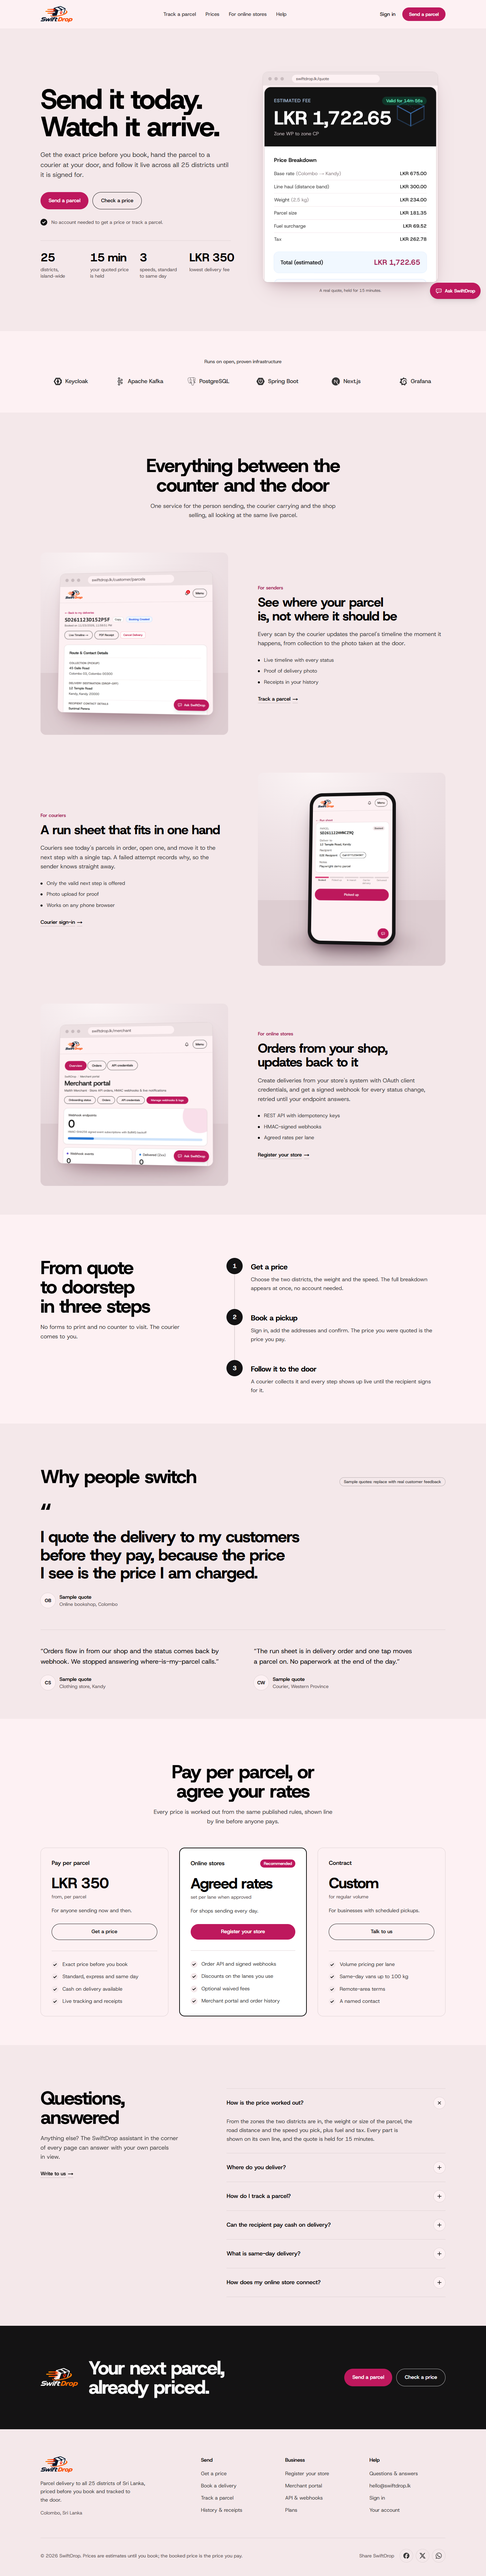
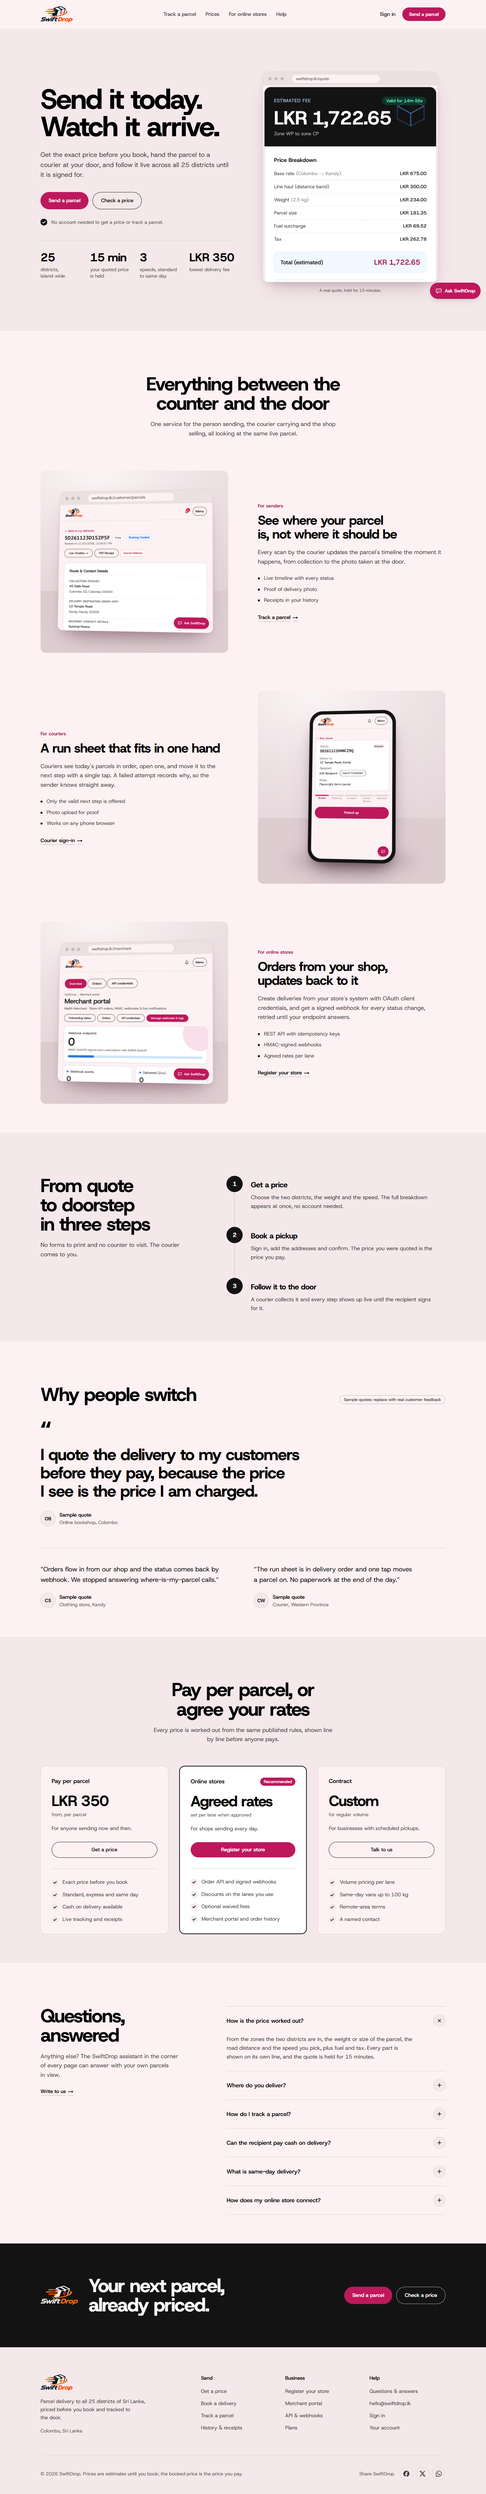
fix(web): remove the "Runs on" row from the landing page (#133)
The row of technology marks is removed at the owner's request, with its marks. The grounds below
the hero shift so they still alternate (features on the page ground, steps on the alternate, and
so on), and the landing screenshots are updated.

diff --git a/apps/web/src/lib/brand-marks.ts b/apps/web/src/lib/brand-marks.ts
@@ -1,7 +1,6 @@
 /**
- * Monochrome marks from Simple Icons 13.21.0 (https://simpleicons.org, icon data CC0 1.0), drawn
- * inline at one size and in one colour. The names and logos are trademarks of their owners and
- * are shown only to say what SwiftDrop runs on.
+ * Monochrome social marks from Simple Icons 13.21.0 (https://simpleicons.org, icon data CC0 1.0),
+ * drawn inline at one size and in one colour. The names and logos are trademarks of their owners.
  */
 
 export interface BrandMark {
@@ -9,15 +8,6 @@ export interface BrandMark {
   /** SVG path on a 24 by 24 grid. */
   path: string;
 }
-
-export const TECH_MARKS: readonly BrandMark[] = [
-  { name: "Keycloak", path: "m18.742 1.182-12.493.002C4.155 4.784 2.079 8.393 0 12.002c2.071 3.612 4.162 7.214 6.252 10.816l12.49-.004 3.089-5.404h2.158v-.002H24L23.996 6.59h-2.168zM8.327 4.792h2.081l1.04 1.8-3.12 5.413 3.117 5.403-1.035 1.81H8.327a2047.566 2047.566 0 0 0-4.168-7.204C5.547 9.606 6.937 7.2 8.327 4.792Zm6.241 0 2.086.003c1.393 2.405 2.78 4.813 4.166 7.222l-4.167 7.2h-2.08c-.382-.562-1.038-1.808-1.038-1.808l3.123-5.405-3.124-5.413z" },
-  { name: "Apache Kafka", path: "M9.71 2.136a1.43 1.43 0 0 0-2.047 0h-.007a1.48 1.48 0 0 0-.421 1.042c0 .41.161.777.422 1.039l.007.007c.257.264.616.426 1.019.426.404 0 .766-.162 1.027-.426l.003-.007c.261-.262.421-.629.421-1.039 0-.408-.159-.777-.421-1.042H9.71zM8.683 22.295c.404 0 .766-.167 1.027-.429l.003-.008c.261-.261.421-.631.421-1.036 0-.41-.159-.778-.421-1.044H9.71a1.42 1.42 0 0 0-1.027-.432 1.4 1.4 0 0 0-1.02.432h-.007c-.26.266-.422.634-.422 1.044 0 .406.161.775.422 1.036l.007.008c.258.262.617.429 1.02.429zm7.89-4.462c.359-.096.683-.33.882-.684l.027-.052a1.47 1.47 0 0 0 .114-1.067 1.454 1.454 0 0 0-.675-.896l-.021-.014a1.425 1.425 0 0 0-1.078-.132c-.36.091-.684.335-.881.686-.2.349-.241.75-.146 1.119.099.363.33.691.675.896h.002c.346.203.737.239 1.101.144zm-6.405-7.342a2.083 2.083 0 0 0-1.485-.627c-.58 0-1.103.242-1.482.627-.378.385-.612.916-.612 1.507s.233 1.124.612 1.514a2.08 2.08 0 0 0 2.967 0c.379-.39.612-.923.612-1.514s-.233-1.122-.612-1.507zm-.835-2.51c.843.141 1.6.552 2.178 1.144h.004c.092.093.182.196.265.299l1.446-.851a3.176 3.176 0 0 1-.047-1.808 3.149 3.149 0 0 1 1.456-1.926l.025-.016a3.062 3.062 0 0 1 2.345-.306c.77.21 1.465.721 1.898 1.482v.002c.431.757.518 1.626.313 2.408a3.145 3.145 0 0 1-1.456 1.928l-.198.118h-.02a3.095 3.095 0 0 1-2.154.201 3.127 3.127 0 0 1-1.514-.944l-1.444.848a4.162 4.162 0 0 1 0 2.879l1.444.846c.413-.47.939-.789 1.514-.944a3.041 3.041 0 0 1 2.371.319l.048.023v.002a3.17 3.17 0 0 1 1.408 1.906 3.215 3.215 0 0 1-.313 2.405l-.026.053-.003-.005a3.147 3.147 0 0 1-1.867 1.436 3.096 3.096 0 0 1-2.371-.318v-.006a3.156 3.156 0 0 1-1.456-1.927 3.175 3.175 0 0 1 .047-1.805l-1.446-.848a3.905 3.905 0 0 1-.265.294l-.004.005a3.938 3.938 0 0 1-2.178 1.138v1.699a3.09 3.09 0 0 1 1.56.862l.002.004c.565.572.914 1.368.914 2.243 0 .873-.35 1.664-.914 2.239l-.002.009a3.1 3.1 0 0 1-2.21.931 3.1 3.1 0 0 1-2.206-.93h-.002v-.009a3.186 3.186 0 0 1-.916-2.239c0-.875.35-1.672.916-2.243v-.004h.002a3.1 3.1 0 0 1 1.558-.862v-1.699a3.926 3.926 0 0 1-2.176-1.138l-.006-.005a4.098 4.098 0 0 1-1.173-2.874c0-1.122.452-2.136 1.173-2.872h.006a3.947 3.947 0 0 1 2.176-1.144V6.289a3.137 3.137 0 0 1-1.558-.864h-.002v-.004a3.192 3.192 0 0 1-.916-2.243c0-.871.35-1.669.916-2.243l.002-.002A3.084 3.084 0 0 1 8.683 0c.861 0 1.641.355 2.21.932v.002h.002c.565.574.914 1.372.914 2.243 0 .876-.35 1.667-.914 2.243l-.002.005a3.142 3.142 0 0 1-1.56.864v1.692zm8.121-1.129l-.012-.019a1.452 1.452 0 0 0-.87-.668 1.43 1.43 0 0 0-1.103.146h.002c-.347.2-.58.529-.677.896-.095.365-.054.768.146 1.119l.007.009c.2.347.519.579.874.673.357.103.755.059 1.098-.144l.019-.009a1.47 1.47 0 0 0 .657-.885 1.493 1.493 0 0 0-.141-1.118" },
-  { name: "PostgreSQL", path: "M23.5594 14.7228a.5269.5269 0 0 0-.0563-.1191c-.139-.2632-.4768-.3418-1.0074-.2321-1.6533.3411-2.2935.1312-2.5256-.0191 1.342-2.0482 2.445-4.522 3.0411-6.8297.2714-1.0507.7982-3.5237.1222-4.7316a1.5641 1.5641 0 0 0-.1509-.235C21.6931.9086 19.8007.0248 17.5099.0005c-1.4947-.0158-2.7705.3461-3.1161.4794a9.449 9.449 0 0 0-.5159-.0816 8.044 8.044 0 0 0-1.3114-.1278c-1.1822-.0184-2.2038.2642-3.0498.8406-.8573-.3211-4.7888-1.645-7.2219.0788C.9359 2.1526.3086 3.8733.4302 6.3043c.0409.818.5069 3.334 1.2423 5.7436.4598 1.5065.9387 2.7019 1.4334 3.582.553.9942 1.1259 1.5933 1.7143 1.7895.4474.1491 1.1327.1441 1.8581-.7279.8012-.9635 1.5903-1.8258 1.9446-2.2069.4351.2355.9064.3625 1.39.3772a.0569.0569 0 0 0 .0004.0041 11.0312 11.0312 0 0 0-.2472.3054c-.3389.4302-.4094.5197-1.5002.7443-.3102.064-1.1344.2339-1.1464.8115-.0025.1224.0329.2309.0919.3268.2269.4231.9216.6097 1.015.6331 1.3345.3335 2.5044.092 3.3714-.6787-.017 2.231.0775 4.4174.3454 5.0874.2212.5529.7618 1.9045 2.4692 1.9043.2505 0 .5263-.0291.8296-.0941 1.7819-.3821 2.5557-1.1696 2.855-2.9059.1503-.8707.4016-2.8753.5388-4.1012.0169-.0703.0357-.1207.057-.1362.0007-.0005.0697-.0471.4272.0307a.3673.3673 0 0 0 .0443.0068l.2539.0223.0149.001c.8468.0384 1.9114-.1426 2.5312-.4308.6438-.2988 1.8057-1.0323 1.5951-1.6698zM2.371 11.8765c-.7435-2.4358-1.1779-4.8851-1.2123-5.5719-.1086-2.1714.4171-3.6829 1.5623-4.4927 1.8367-1.2986 4.8398-.5408 6.108-.13-.0032.0032-.0066.0061-.0098.0094-2.0238 2.044-1.9758 5.536-1.9708 5.7495-.0002.0823.0066.1989.0162.3593.0348.5873.0996 1.6804-.0735 2.9184-.1609 1.1504.1937 2.2764.9728 3.0892.0806.0841.1648.1631.2518.2374-.3468.3714-1.1004 1.1926-1.9025 2.1576-.5677.6825-.9597.5517-1.0886.5087-.3919-.1307-.813-.5871-1.2381-1.3223-.4796-.839-.9635-2.0317-1.4155-3.5126zm6.0072 5.0871c-.1711-.0428-.3271-.1132-.4322-.1772.0889-.0394.2374-.0902.4833-.1409 1.2833-.2641 1.4815-.4506 1.9143-1.0002.0992-.126.2116-.2687.3673-.4426a.3549.3549 0 0 0 .0737-.1298c.1708-.1513.2724-.1099.4369-.0417.156.0646.3078.26.3695.4752.0291.1016.0619.2945-.0452.4444-.9043 1.2658-2.2216 1.2494-3.1676 1.0128zm2.094-3.988-.0525.141c-.133.3566-.2567.6881-.3334 1.003-.6674-.0021-1.3168-.2872-1.8105-.8024-.6279-.6551-.9131-1.5664-.7825-2.5004.1828-1.3079.1153-2.4468.079-3.0586-.005-.0857-.0095-.1607-.0122-.2199.2957-.2621 1.6659-.9962 2.6429-.7724.4459.1022.7176.4057.8305.928.5846 2.7038.0774 3.8307-.3302 4.7363-.084.1866-.1633.3629-.2311.5454zm7.3637 4.5725c-.0169.1768-.0358.376-.0618.5959l-.146.4383a.3547.3547 0 0 0-.0182.1077c-.0059.4747-.054.6489-.115.8693-.0634.2292-.1353.4891-.1794 1.0575-.11 1.4143-.8782 2.2267-2.4172 2.5565-1.5155.3251-1.7843-.4968-2.0212-1.2217a6.5824 6.5824 0 0 0-.0769-.2266c-.2154-.5858-.1911-1.4119-.1574-2.5551.0165-.5612-.0249-1.9013-.3302-2.6462.0044-.2932.0106-.5909.019-.8918a.3529.3529 0 0 0-.0153-.1126 1.4927 1.4927 0 0 0-.0439-.208c-.1226-.4283-.4213-.7866-.7797-.9351-.1424-.059-.4038-.1672-.7178-.0869.067-.276.1831-.5875.309-.9249l.0529-.142c.0595-.16.134-.3257.213-.5012.4265-.9476 1.0106-2.2453.3766-5.1772-.2374-1.0981-1.0304-1.6343-2.2324-1.5098-.7207.0746-1.3799.3654-1.7088.5321a5.6716 5.6716 0 0 0-.1958.1041c.0918-1.1064.4386-3.1741 1.7357-4.4823a4.0306 4.0306 0 0 1 .3033-.276.3532.3532 0 0 0 .1447-.0644c.7524-.5706 1.6945-.8506 2.802-.8325.4091.0067.8017.0339 1.1742.081 1.939.3544 3.2439 1.4468 4.0359 2.3827.8143.9623 1.2552 1.9315 1.4312 2.4543-1.3232-.1346-2.2234.1268-2.6797.779-.9926 1.4189.543 4.1729 1.2811 5.4964.1353.2426.2522.4522.2889.5413.2403.5825.5515.9713.7787 1.2552.0696.087.1372.1714.1885.245-.4008.1155-1.1208.3825-1.0552 1.717-.0123.1563-.0423.4469-.0834.8148-.0461.2077-.0702.4603-.0994.7662zm.8905-1.6211c-.0405-.8316.2691-.9185.5967-1.0105a2.8566 2.8566 0 0 0 .135-.0406 1.202 1.202 0 0 0 .1342.103c.5703.3765 1.5823.4213 3.0068.1344-.2016.1769-.5189.3994-.9533.6011-.4098.1903-1.0957.333-1.7473.3636-.7197.0336-1.0859-.0807-1.1721-.151zm.5695-9.2712c-.0059.3508-.0542.6692-.1054 1.0017-.055.3576-.112.7274-.1264 1.1762-.0142.4368.0404.8909.0932 1.3301.1066.887.216 1.8003-.2075 2.7014a3.5272 3.5272 0 0 1-.1876-.3856c-.0527-.1276-.1669-.3326-.3251-.6162-.6156-1.1041-2.0574-3.6896-1.3193-4.7446.3795-.5427 1.3408-.5661 2.1781-.463zm.2284 7.0137a12.3762 12.3762 0 0 0-.0853-.1074l-.0355-.0444c.7262-1.1995.5842-2.3862.4578-3.4385-.0519-.4318-.1009-.8396-.0885-1.2226.0129-.4061.0666-.7543.1185-1.0911.0639-.415.1288-.8443.1109-1.3505.0134-.0531.0188-.1158.0118-.1902-.0457-.4855-.5999-1.938-1.7294-3.253-.6076-.7073-1.4896-1.4972-2.6889-2.0395.5251-.1066 1.2328-.2035 2.0244-.1859 2.0515.0456 3.6746.8135 4.8242 2.2824a.908.908 0 0 1 .0667.1002c.7231 1.3556-.2762 6.2751-2.9867 10.5405zm-8.8166-6.1162c-.025.1794-.3089.4225-.6211.4225a.5821.5821 0 0 1-.0809-.0056c-.1873-.026-.3765-.144-.5059-.3156-.0458-.0605-.1203-.178-.1055-.2844.0055-.0401.0261-.0985.0925-.1488.1182-.0894.3518-.1226.6096-.0867.3163.0441.6426.1938.6113.4186zm7.9305-.4114c.0111.0792-.049.201-.1531.3102-.0683.0717-.212.1961-.4079.2232a.5456.5456 0 0 1-.075.0052c-.2935 0-.5414-.2344-.5607-.3717-.024-.1765.2641-.3106.5611-.352.297-.0414.6111.0088.6356.1851z" },
-  { name: "Spring Boot", path: "m23.693 10.7058-4.73-8.1844c-.4094-.7106-1.4166-1.2942-2.2402-1.2942H7.2725c-.819 0-1.8308.5836-2.2402 1.2942L.307 10.7058c-.4095.7106-.4095 1.873 0 2.5837l4.7252 8.189c.4094.7107 1.4166 1.2943 2.2402 1.2943h9.455c.819 0 1.826-.5836 2.2402-1.2942l4.7252-8.189c.4095-.7107.4095-1.8732 0-2.5838zM10.9763 5.7547c0-.5365.4377-.9742.9742-.9742s.9742.4377.9742.9742v5.8217c0 .5366-.4377.9742-.9742.9742s-.9742-.4376-.9742-.9742zm.9742 12.4294c-3.6427 0-6.6077-2.965-6.6077-6.6077.0047-2.0896.993-4.0521 2.6685-5.304a.8657.8657 0 0 1 1.2142.1788.8657.8657 0 0 1-.1788 1.2143c-2.1602 1.6048-2.612 4.6592-1.0072 6.8194 1.6049 2.1603 4.6593 2.612 6.8195 1.0072 1.2378-.9177 1.9673-2.372 1.9673-3.9157a4.8972 4.8972 0 0 0-1.9861-3.925c-.386-.2824-.466-.8284-.1836-1.2143.2824-.386.8283-.466 1.2143-.1835 1.6895 1.2471 2.6826 3.2238 2.6873 5.3228 0 3.6474-2.965 6.6077-6.6077 6.6077z" },
-  { name: "Next.js", path: "M18.665 21.978C16.758 23.255 14.465 24 12 24 5.377 24 0 18.623 0 12S5.377 0 12 0s12 5.377 12 12c0 3.583-1.574 6.801-4.067 9.001L9.219 7.2H7.2v9.596h1.615V9.251l9.85 12.727Zm-3.332-8.533 1.6 2.061V7.2h-1.6v6.245Z" },
-  { name: "Grafana", path: "M23.02 10.59a8.578 8.578 0 0 0-.862-3.034 8.911 8.911 0 0 0-1.789-2.445c.337-1.342-.413-2.505-.413-2.505-1.292-.08-2.113.4-2.416.62-.052-.02-.102-.044-.154-.064-.22-.089-.446-.172-.677-.247-.231-.073-.47-.14-.711-.197a9.867 9.867 0 0 0-.875-.161C14.557.753 12.94 0 12.94 0c-1.804 1.145-2.147 2.744-2.147 2.744l-.018.093c-.098.029-.2.057-.298.088-.138.042-.275.094-.413.143-.138.055-.275.107-.41.166a8.869 8.869 0 0 0-1.557.87l-.063-.029c-2.497-.955-4.716.195-4.716.195-.203 2.658.996 4.33 1.235 4.636a11.608 11.608 0 0 0-.607 2.635C1.636 12.677.953 15.014.953 15.014c1.926 2.214 4.171 2.351 4.171 2.351.003-.002.006-.002.006-.005.285.509.615.994.986 1.446.156.19.32.371.488.548-.704 2.009.099 3.68.099 3.68 2.144.08 3.553-.937 3.849-1.173a9.784 9.784 0 0 0 3.164.501h.08l.055-.003.107-.002.103-.005.003.002c1.01 1.44 2.788 1.646 2.788 1.646 1.264-1.332 1.337-2.653 1.337-2.94v-.058c0-.02-.003-.039-.003-.06.265-.187.52-.387.758-.6a7.875 7.875 0 0 0 1.415-1.7c1.43.083 2.437-.885 2.437-.885-.236-1.49-1.085-2.216-1.264-2.354l-.018-.013-.016-.013a.217.217 0 0 1-.031-.02c.008-.092.016-.18.02-.27.011-.162.016-.323.016-.48v-.253l-.005-.098-.008-.135a1.891 1.891 0 0 0-.01-.13c-.003-.042-.008-.083-.013-.125l-.016-.124-.018-.122a6.215 6.215 0 0 0-2.032-3.73 6.015 6.015 0 0 0-3.222-1.46 6.292 6.292 0 0 0-.85-.048l-.107.002h-.063l-.044.003-.104.008a4.777 4.777 0 0 0-3.335 1.695c-.332.4-.592.84-.768 1.297a4.594 4.594 0 0 0-.312 1.817l.003.091c.005.055.007.11.013.164a3.615 3.615 0 0 0 .698 1.82 3.53 3.53 0 0 0 1.827 1.282c.33.098.66.14.971.137.039 0 .078 0 .114-.002l.063-.003c.02 0 .041-.003.062-.003.034-.002.065-.007.099-.01.007 0 .018-.003.028-.003l.031-.005.06-.008a1.18 1.18 0 0 0 .112-.02c.036-.008.072-.013.109-.024a2.634 2.634 0 0 0 .914-.415c.028-.02.056-.041.085-.065a.248.248 0 0 0 .039-.35.244.244 0 0 0-.309-.06l-.078.042c-.09.044-.184.083-.283.116a2.476 2.476 0 0 1-.475.096c-.028.003-.054.006-.083.006l-.083.002c-.026 0-.054 0-.08-.002l-.102-.006h-.012l-.024.006c-.016-.003-.031-.003-.044-.006-.031-.002-.06-.007-.091-.01a2.59 2.59 0 0 1-.724-.213 2.557 2.557 0 0 1-.667-.438 2.52 2.52 0 0 1-.805-1.475 2.306 2.306 0 0 1-.029-.444l.006-.122v-.023l.002-.031c.003-.021.003-.04.005-.06a3.163 3.163 0 0 1 1.352-2.29 3.12 3.12 0 0 1 .937-.43 2.946 2.946 0 0 1 .776-.101h.06l.07.002.045.003h.026l.07.005a4.041 4.041 0 0 1 1.635.49 3.94 3.94 0 0 1 1.602 1.662 3.77 3.77 0 0 1 .397 1.414l.005.076.003.075c.002.026.002.05.002.075 0 .024.003.052 0 .07v.065l-.002.073-.008.174a6.195 6.195 0 0 1-.08.639 5.1 5.1 0 0 1-.267.927 5.31 5.31 0 0 1-.624 1.13 5.052 5.052 0 0 1-3.237 2.014 4.82 4.82 0 0 1-.649.066l-.039.003h-.287a6.607 6.607 0 0 1-1.716-.265 6.776 6.776 0 0 1-3.4-2.274 6.75 6.75 0 0 1-.746-1.15 6.616 6.616 0 0 1-.714-2.596l-.005-.083-.002-.02v-.056l-.003-.073v-.096l-.003-.104v-.07l.003-.163c.008-.22.026-.45.054-.678a8.707 8.707 0 0 1 .28-1.355c.128-.444.286-.872.473-1.277a7.04 7.04 0 0 1 1.456-2.1 5.925 5.925 0 0 1 .953-.763c.169-.111.343-.213.524-.306.089-.05.182-.091.273-.135.047-.02.093-.042.138-.062a7.177 7.177 0 0 1 .714-.267l.145-.045c.049-.015.098-.026.148-.041.098-.029.197-.052.296-.076.049-.013.1-.02.15-.033l.15-.032.151-.028.076-.013.075-.01.153-.024c.057-.01.114-.013.171-.023l.169-.021c.036-.003.073-.008.106-.01l.073-.008.036-.003.042-.002c.057-.003.114-.008.171-.01l.086-.006h.023l.037-.003.145-.007a7.999 7.999 0 0 1 1.708.125 7.917 7.917 0 0 1 2.048.68 8.253 8.253 0 0 1 1.672 1.09l.09.077.089.078c.06.052.114.107.171.159.057.052.112.106.166.16.052.055.107.107.159.164a8.671 8.671 0 0 1 1.41 1.978c.012.026.028.052.04.078l.04.078.075.156c.023.051.05.1.07.153l.065.15a8.848 8.848 0 0 1 .45 1.34.19.19 0 0 0 .201.142.186.186 0 0 0 .172-.184c.01-.246.002-.532-.024-.856z" },
-];
 
 export const SOCIAL_MARKS: readonly BrandMark[] = [
   { name: "Facebook", path: "M9.101 23.691v-7.98H6.627v-3.667h2.474v-1.58c0-4.085 1.848-5.978 5.858-5.978.401 0 .955.042 1.468.103a8.68 8.68 0 0 1 1.141.195v3.325a8.623 8.623 0 0 0-.653-.036 26.805 26.805 0 0 0-.733-.009c-.707 0-1.259.096-1.675.309a1.686 1.686 0 0 0-.679.622c-.258.42-.374.995-.374 1.752v1.297h3.919l-.386 2.103-.287 1.564h-3.246v8.245C19.396 23.238 24 18.179 24 12.044c0-6.627-5.373-12-12-12s-12 5.373-12 12c0 5.628 3.874 10.35 9.101 11.647Z" },

diff --git a/apps/web/src/app/page.tsx b/apps/web/src/app/page.tsx
@@ -1,6 +1,6 @@
 /* eslint-disable @next/next/no-img-element -- AVIF screenshots at fixed sizes need no optimisation */
 import Link from "next/link";
-import { SOCIAL_MARKS, TECH_MARKS, type BrandMark } from "@/lib/brand-marks";
+import { SOCIAL_MARKS } from "@/lib/brand-marks";
 import {
   FAQS,
   FEATURES,
@@ -27,7 +27,6 @@ export default function HomePage() {
   return (
     <>
       <Hero />
-      <RunsOn />
       <Features />
       <Process />
       <Testimonials />
@@ -122,43 +121,11 @@ function BrowserFrame({ url, children }: { url: string; children: React.ReactNod
   );
 }
 
-// ---------------------------------------------------------------- 3. logo row
-
-function Mark({ mark, className }: { mark: BrandMark; className: string }) {
-  return (
-    <svg role="img" aria-label={mark.name} viewBox="0 0 24 24" className={className} fill="currentColor">
-      <path d={mark.path} />
-    </svg>
-  );
-}
-
-function RunsOn() {
-  return (
-    <section aria-labelledby="runs-on" className="bg-ground py-16 md:py-20">
-      <div className={WRAP}>
-        <h2 id="runs-on" className="text-center text-sm font-medium text-ink-2">
-          Runs on open, proven infrastructure
-        </h2>
-        <ul className="mt-9 grid grid-cols-2 gap-x-6 gap-y-8 sm:grid-cols-3 lg:grid-cols-6">
-          {TECH_MARKS.map((mark) => (
-            <li key={mark.name} className="flex items-center justify-center gap-2.5 text-ink-2">
-              <Mark mark={mark} className="h-6 w-6 shrink-0" />
-              <span className="whitespace-nowrap text-[17px] font-semibold tracking-[-0.01em]" aria-hidden="true">
-                {mark.name}
-              </span>
-            </li>
-          ))}
-        </ul>
-      </div>
-    </section>
-  );
-}
-
 // ---------------------------------------------------------------- 4. features
 
 function Features() {
   return (
-    <section id="stores" aria-labelledby="features-title" className={`scroll-mt-6 bg-ground-alt ${BAND}`}>
+    <section id="stores" aria-labelledby="features-title" className={`scroll-mt-6 bg-ground ${BAND}`}>
       <div className={WRAP}>
         <div className="mx-auto max-w-[760px] text-center">
           <h2 id="features-title" className={H2}>
@@ -247,7 +214,7 @@ function Stage({ feature, className }: { feature: Feature; className: string }) 
 
 function Process() {
   return (
-    <section aria-labelledby="process-title" className={`bg-ground ${BAND}`}>
+    <section aria-labelledby="process-title" className={`bg-ground-alt ${BAND}`}>
       <div className={`${WRAP} grid gap-12 lg:grid-cols-[minmax(0,5fr)_minmax(0,7fr)] lg:gap-[88px]`}>
         <div>
           <h2 id="process-title" className={H2}>
@@ -282,7 +249,7 @@ function Process() {
 
 function Avatar({ initials }: { initials: string }) {
   return (
-    <span aria-hidden="true" className="grid h-11 w-11 shrink-0 place-items-center rounded-full bg-ground text-sm font-bold text-ink ring-1 ring-hairline">
+    <span aria-hidden="true" className="grid h-11 w-11 shrink-0 place-items-center rounded-full bg-ground-alt text-sm font-bold text-ink ring-1 ring-hairline">
       {initials}
     </span>
   );
@@ -291,7 +258,7 @@ function Avatar({ initials }: { initials: string }) {
 function Testimonials() {
   const [lead, ...rest] = SAMPLE_QUOTES;
   return (
-    <section aria-labelledby="quotes-title" className={`bg-ground-alt ${BAND}`}>
+    <section aria-labelledby="quotes-title" className={`bg-ground ${BAND}`}>
       <div className={WRAP}>
         <div className="flex flex-wrap items-end justify-between gap-4">
           <h2 id="quotes-title" className={H2}>
@@ -339,7 +306,7 @@ function Testimonials() {
 
 function Pricing() {
   return (
-    <section id="pricing" aria-labelledby="pricing-title" className={`scroll-mt-6 bg-ground ${BAND}`}>
+    <section id="pricing" aria-labelledby="pricing-title" className={`scroll-mt-6 bg-ground-alt ${BAND}`}>
       <div className={WRAP}>
         <div className="mx-auto max-w-[720px] text-center">
           <h2 id="pricing-title" className={H2}>
@@ -399,7 +366,7 @@ function Check() {
 
 function Questions() {
   return (
-    <section id="help" aria-labelledby="faq-title" className={`scroll-mt-6 bg-ground-alt ${BAND}`}>
+    <section id="help" aria-labelledby="faq-title" className={`scroll-mt-6 bg-ground ${BAND}`}>
       <div className={`${WRAP} grid gap-12 lg:grid-cols-[minmax(0,5fr)_minmax(0,7fr)] lg:gap-[88px]`}>
         <div className="lg:sticky lg:top-10 lg:self-start">
           <h2 id="faq-title" className={H2}>
@@ -422,7 +389,7 @@ function Questions() {
                 {faq.question}
                 <span
                   aria-hidden="true"
-                  className="grid h-9 w-9 shrink-0 place-items-center rounded-full border border-hairline bg-ground text-ink transition-transform duration-200 group-open:rotate-45 motion-reduce:transition-none"
+                  className="grid h-9 w-9 shrink-0 place-items-center rounded-full border border-hairline bg-ground-alt text-ink transition-transform duration-200 group-open:rotate-45 motion-reduce:transition-none"
                 >
                   <svg viewBox="0 0 16 16" className="h-3.5 w-3.5">
                     <path d="M8 2v12M2 8h12" stroke="currentColor" strokeWidth="1.8" strokeLinecap="round" />

diff --git a/apps/web/src/lib/landing.test.ts b/apps/web/src/lib/landing.test.ts
@@ -1,11 +1,10 @@
 import { describe, expect, it } from "vitest";
-import { SOCIAL_MARKS, TECH_MARKS } from "./brand-marks";
+import { SOCIAL_MARKS } from "./brand-marks";
 import { FAQS, FEATURES, FOOTER_COLUMNS, HERO_FACTS, PLANS, SAMPLE_QUOTES, STEPS } from "./landing";
 
 describe("landing page content", () => {
   it("has the sections' required counts", () => {
     expect(HERO_FACTS).toHaveLength(4);
-    expect(TECH_MARKS).toHaveLength(6);
     expect(FEATURES).toHaveLength(3);
     expect(STEPS).toHaveLength(3);
     expect(SAMPLE_QUOTES).toHaveLength(3);
@@ -29,7 +28,7 @@ describe("landing page content", () => {
   });
 
   it("gives every mark a drawable path and every feature an image with alt text", () => {
-    for (const mark of [...TECH_MARKS, ...SOCIAL_MARKS]) expect(mark.path).toMatch(/^[Mm]/);
+    for (const mark of SOCIAL_MARKS) expect(mark.path).toMatch(/^[Mm]/);
     for (const feature of FEATURES) {
       expect(feature.image.src).toMatch(/^\/landing\/.+\.avif$/);
       expect(feature.image.alt.length).toBeGreaterThan(10);
